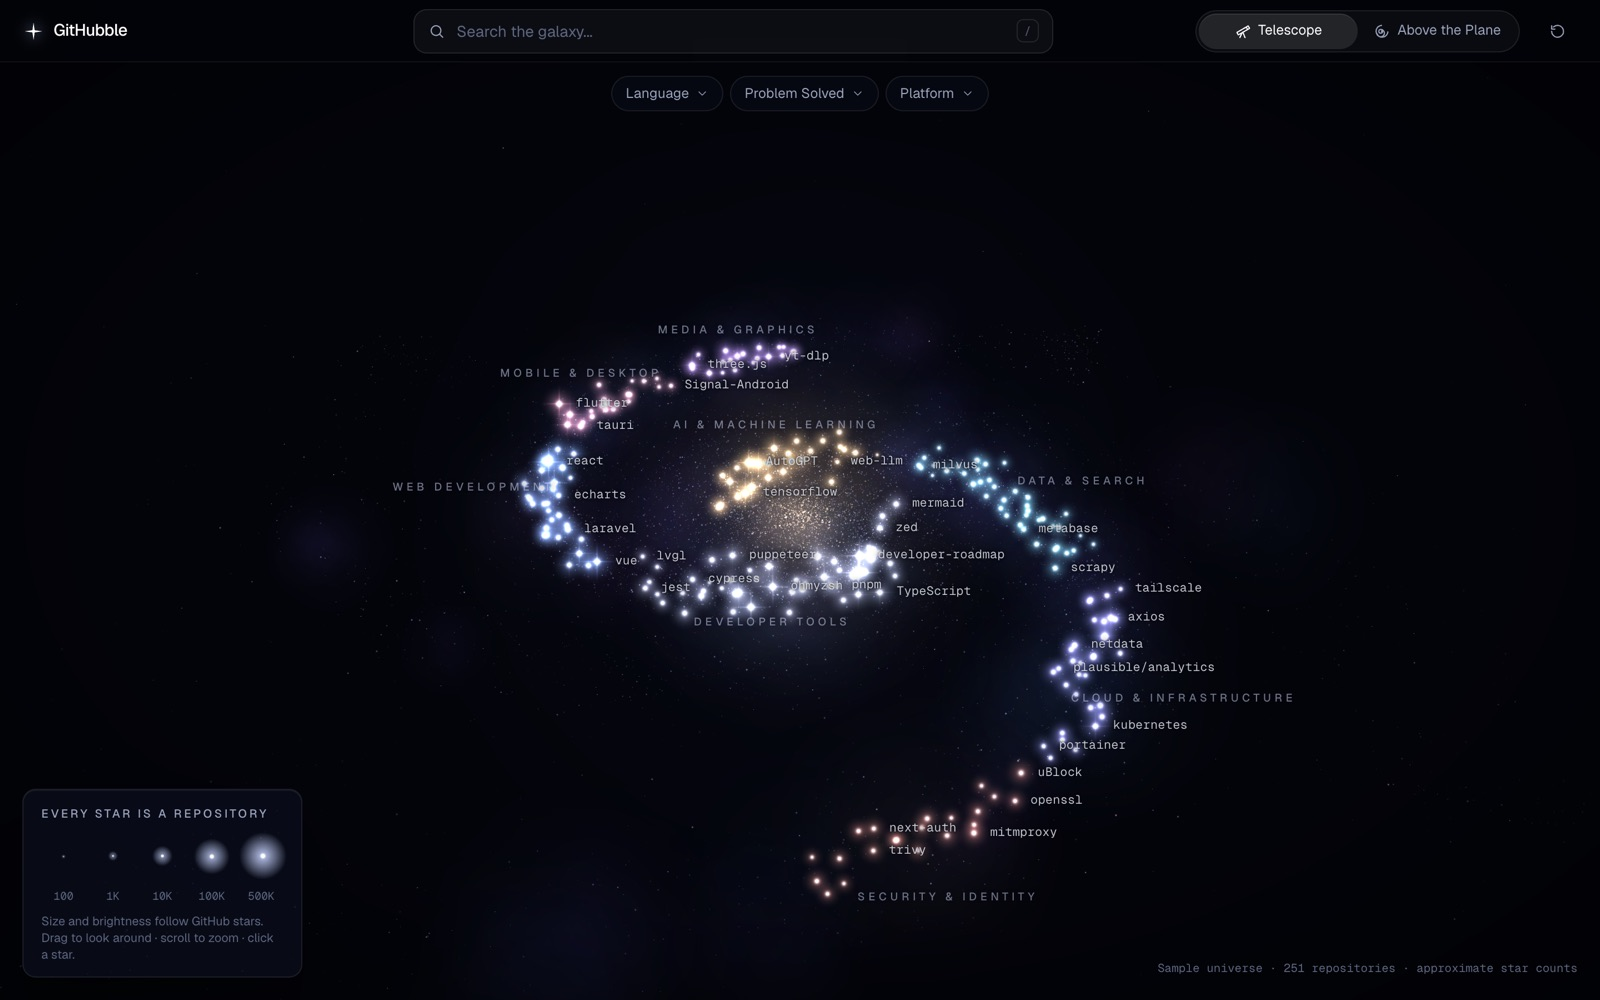
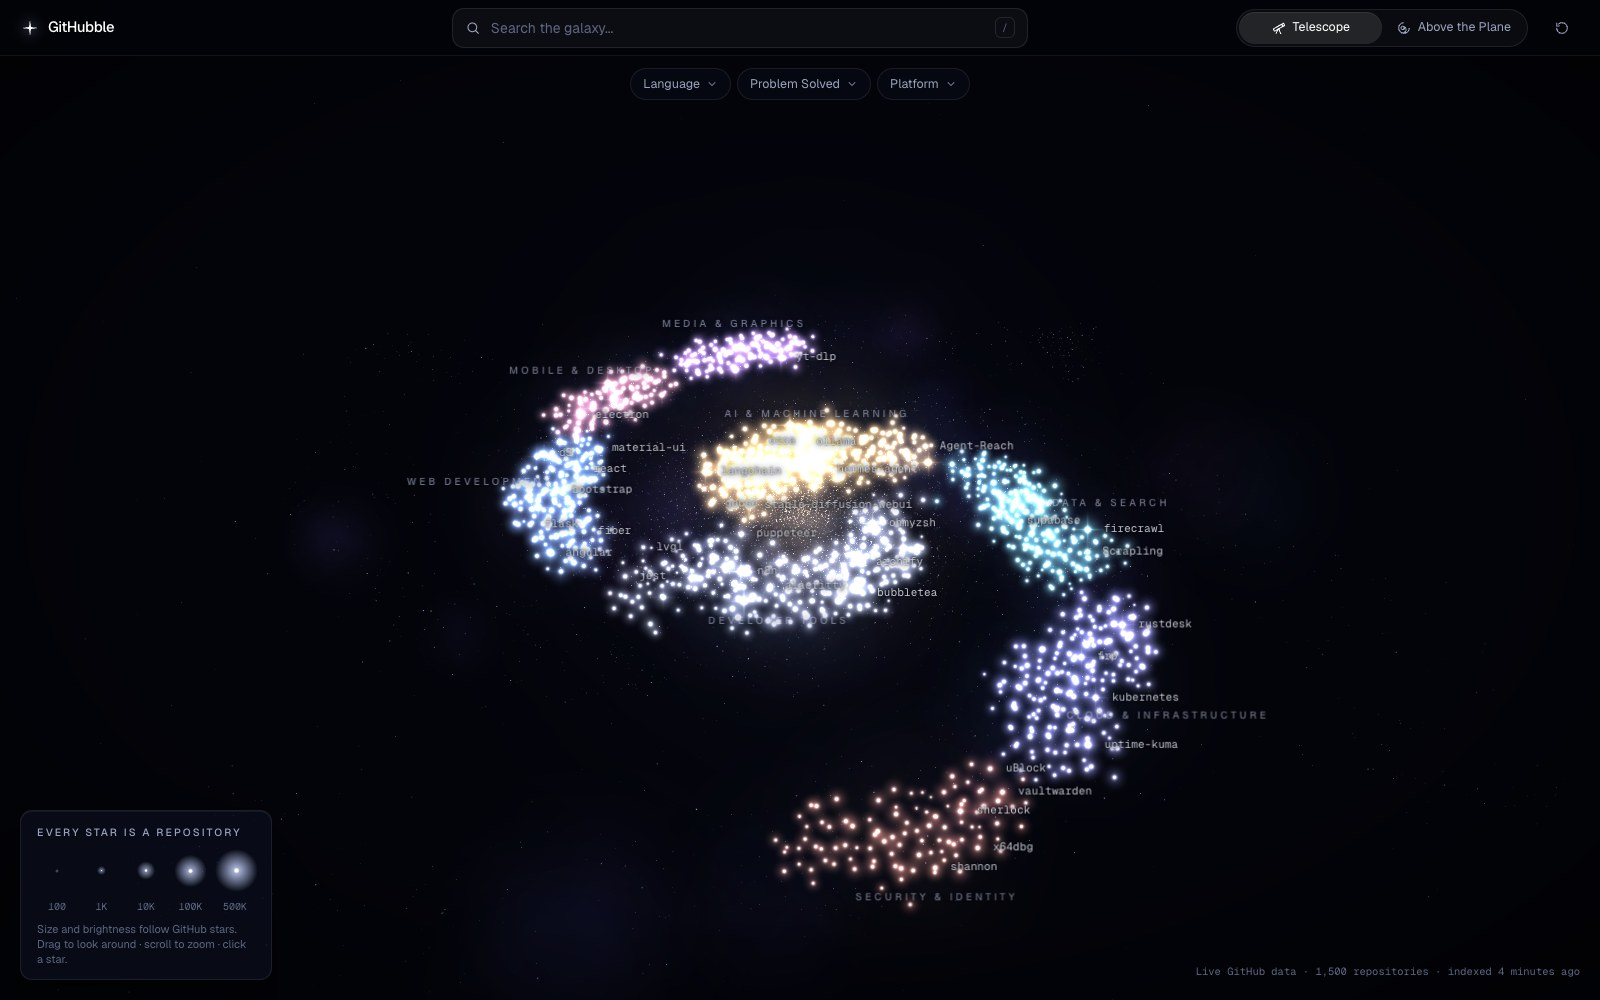
Mark Phase 2 done: the live galaxy is in production
The first import put 1,500 repositories in Supabase, classified by Claude
Sonnet 5.5 for about $1.40, and githubble.vercel.app now serves them.
Refreshes the telescope screenshot with the live galaxy and corrects the
importer's timing notes to what the run measured.

diff --git a/README.md b/README.md
@@ -10,19 +10,20 @@ search-result lists, you explore repositories as a navigable galaxy:
 - **Search and filters** light up matching stars and dim the rest, so the surrounding
   neighborhood stays visible as context.
 
-![Telescope view of the sample galaxy](docs/screenshots/telescope.jpg)
+![Telescope view of the live galaxy](docs/screenshots/telescope.jpg)
 
 ## Status
 
-**Phase 1 (Fake Universe) is complete, and Phase 2 (Real Universe) is built.** The importer
-pulls real repositories from GitHub, classifies them with Claude, lays out the galaxy and stores
-it in Supabase; the app serves it from `/api/galaxy`. Until a Supabase project is configured, the
-app shows a built-in sample universe of ~250 well-known repositories with approximate metadata.
+**Phases 1 (Fake Universe) and 2 (Real Universe) are complete.** The importer pulls real
+repositories from GitHub, classifies them with Claude, lays out the galaxy and stores it in
+Supabase; the app serves it from `/api/galaxy`. https://githubble.vercel.app shows 1,500 live
+repositories. Without a Supabase project configured, the app shows a built-in sample universe of
+~250 well-known repositories with approximate metadata.
 
 | Phase | Scope | Status |
 | --- | --- | --- |
 | 1. Fake Universe | Rendering, both cameras, hover/select, card, search, filters, Show Similar on sample data | **Done** |
-| 2. Real Universe | Supabase schema, GitHub importer with Claude classification, live galaxy API | **Built**, first import pending credentials |
+| 2. Real Universe | Supabase schema, GitHub importer with Claude classification, live galaxy API | **Done**: 1,500 repositories live, classified by Claude Sonnet 5.5 (first import ≈ $1.40) |
 | 3. Relationships | Similarity-driven clustering and persisted spiral-arm layout at scale | Planned |
 | 4. Intelligence | Embeddings (pgvector), semantic search, star growth, trending | Planned |
 
@@ -87,11 +88,11 @@ any size (up to 50,000) for performance testing.
    Use the **session pooler** connection string for `SUPABASE_DB_URL`: the direct
    `db.<ref>.supabase.co` host is IPv6-only, so it fails with `ENOTFOUND` on IPv4-only networks.
 3. **Import:** `npm run import`. It searches GitHub for the most-starred active repositories
-   across ~90 topics (about 3½ minutes at GitHub's search rate limit), picks a diverse 1,500 by
-   taking turns across topics, classifies them with Claude, drops non-software (awesome-lists,
-   books, courses), computes the layout and upserts the rows. A first full run costs roughly
-   $1–2 in Claude usage with Sonnet; later runs reuse cached classifications for unchanged
-   repositories.
+   across ~90 topics (about 7 minutes at GitHub's search rate limit; responses are cached for
+   12 hours), picks a diverse 1,500 by taking turns across topics, classifies them with Claude,
+   drops non-software (awesome-lists, books, courses), computes the layout and upserts the rows.
+   The first full run classified 1,800 repositories with Sonnet 5.5 for about $1.40 in about
+   2 minutes; later runs reuse cached classifications for unchanged repositories.
 
 | Importer option | Default | |
 | --- | --- | --- |
